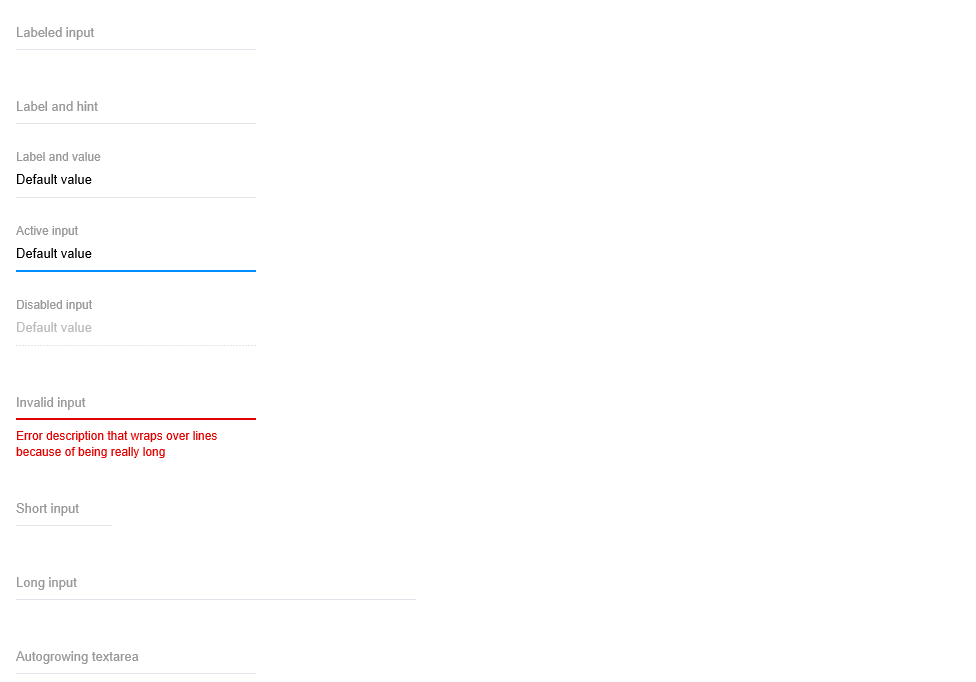
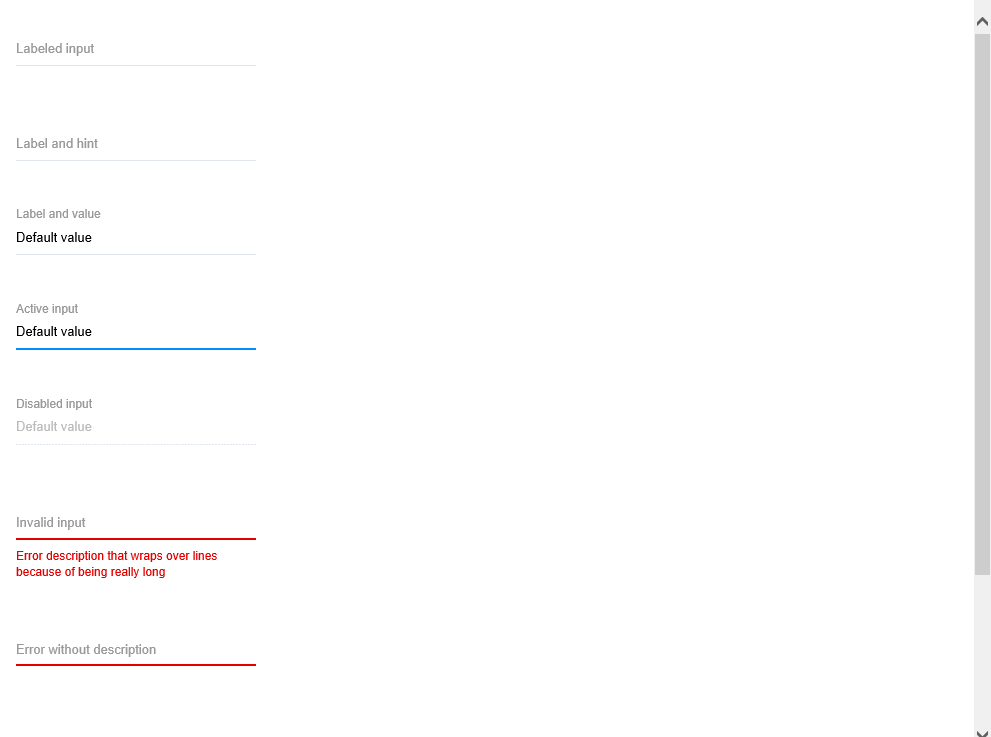
RG-1153 UI Language: input. error: String?
Former-commit-id: 165c53ee4e358b23918e399381b0aed50bde8f85

diff --git a/components/input/input.js b/components/input/input.js
@@ -20,10 +20,7 @@ export default class Input extends RingComponent {
     size: PropTypes.oneOf(['S', 'M', 'L']),
     label: PropTypes.string,
     active: PropTypes.bool,
-    error: PropTypes.oneOfType([
-      PropTypes.string,
-      PropTypes.bool
-    ]),
+    error: PropTypes.string,
     multiline: PropTypes.bool,
     onChange: PropTypes.func
   };
@@ -73,7 +70,7 @@ export default class Input extends RingComponent {
       {
         [styles[`size${size}`]]: true,
         [styles.active]: active,
-        [styles.error]: error,
+        [styles.error]: error != null,
         [styles.empty]: this.state.empty
       }
     );
@@ -116,7 +113,7 @@ export default class Input extends RingComponent {
               el.style.height = `${el.scrollHeight}px`;
             }
           }}
-        >{typeof error === 'string' && error}</div>
+        >{error}</div>
       </div>
     );
   }

diff --git a/components/input/input.examples.html b/components/input/input.examples.html
@@ -1,5 +1,15 @@
 <example name="input">
   <file type="scss">
+    body {
+      margin: 0;
+    }
+
+    .inputs {
+      display: flex;
+      flex-flow: column wrap;
+      max-height: 100vh;
+    }
+
     .inputs > div {
       margin: 16px;
     }
@@ -41,6 +51,10 @@
         <Input
           label="Invalid input"
           error="Error description that wraps over lines because of being really long"
+        />
+        <Input
+          label="Error without description"
+          error=""
         />
         <Input
           label="Short input"
